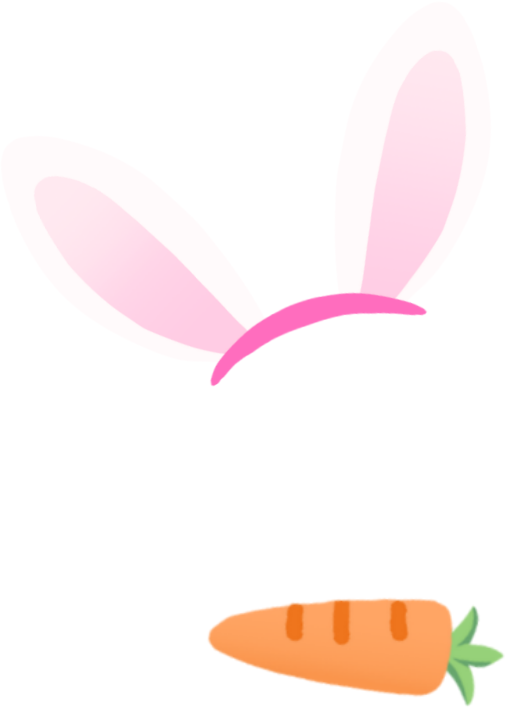
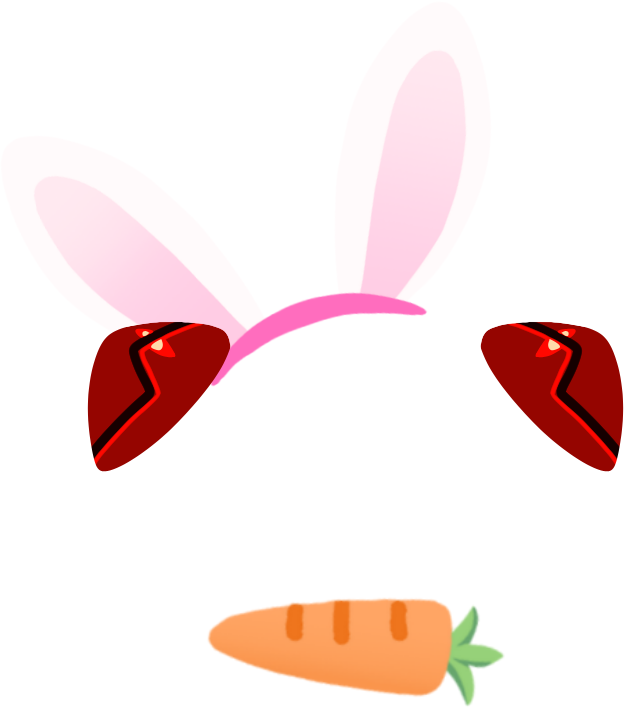
update v1787691812

Changed region(s): [[0.1186, 0.0932, 1.0, 0.6836], [0.3261, 0.839, 1.0, 1.0]]

diff --git a/mascot.py b/mascot.py
@@ -5534,6 +5534,10 @@ class Mascot:
         self._prop_back_cfg = {}     # 뽑힌 소품의 뒤쪽 조각 움직임 설정
         self._prop_bits = []         # 여러 조각짜리 소품의 곁조각 자리 이름
         self._prop_bit_cfg = {}      # 그 조각마다의 움직임 (지뢰 13)
+        self._prop_gname = ""        # 지금 소품의 이름 (고양이·만두…)
+        self._cat_open_until = 0.0   # 고양이가 눈을 뜨고 있는 시한
+        self._cat_open_next = 0.0    # 다음에 눈을 뜰 시각
+        self._cat_heart_next = 0.0   # 다음 하트가 나올 시각
         # ── 매끈한 캐릭터 (몸만 레이어 창으로) ───────────────────────────
         # **_load_parts 보다 먼저 정해야 한다.** 파츠를 읽으면서 몸 뒤
         # 파츠의 움직임 프레임을 미리 굽는데, 그 캐시에 PIL 을 담을지
@@ -6374,6 +6378,26 @@ class Mascot:
 
     PROP_BIT_MAX = 6         # 한 소품에 붙일 수 있는 곁조각 수
 
+    # 이름(gname)으로 주는 기본 움직임 — 열여덟 캐릭터의 config 를 일일이
+    # 고치지 않아도 새 소품이 살아 움직인다. config 의 prop_motion 이 있으면
+    # 그쪽이 이긴다 (캐릭터별 손맛).
+    #   고양이: prop=꼬리(살랑) · bit2=몸 · bit3=눈감은 얼굴(리듬 까닥) ·
+    #           bit4=눈뜬 얼굴(가만히 빤히 — 움직임 없음)
+    #   만두:   bit2=김(폴폴 오르며 옅어짐)
+    PROP_MOTION_DEF = {
+        "고양이": {
+            "prop": {"motion": "sway", "amp": 8.0, "period": 2.6,
+                     "jitter": 0.18, "pivot": [0.5, 0.9], "steps": 24},
+            "prop_bit3": {"motion": "sway", "amp": 3.6, "period": 1.35,
+                          "jitter": 0.08, "pivot": [0.5, 0.86],
+                          "steps": 20},
+        },
+        "만두": {
+            "prop_bit2": {"motion": "steam", "amp": 1.0, "period": 3.4,
+                          "jitter": 0.12, "rise": 1.1, "steps": 22},
+        },
+    }
+
     def _load_prop_bits(self, pick, s, pil_cache):
         """여러 조각으로 된 특별 소품 (사가 신하나의 미쿠).
 
@@ -6405,7 +6429,10 @@ class Mascot:
         # 다시 매기면 밀린다 (미쿠가 prop16 → prop17 이 됐다). 번호로도
         # 찾아 주므로 옛 config 도 그대로 돈다.
         tab9 = self.cfg.get("prop_motion") or {}
-        mo_all = tab9.get(ent.get("gname") or "") or tab9.get(pick) or {}
+        gname9 = str(ent.get("gname") or "")
+        self._prop_gname = gname9        # 그리는 쪽(고양이 눈)이 본다
+        mo_all = (tab9.get(gname9) or tab9.get(pick)
+                  or self.PROP_MOTION_DEF.get(gname9) or {})
         self._prop_bit_cfg["prop"] = mo_all.get("prop") or {}
         for j9, key9 in enumerate(keys):
             nm9 = "prop_bit%d" % (j9 + 2)
@@ -7478,6 +7505,34 @@ class Mascot:
             im = Image.new("RGBA", pil.size, (0, 0, 0, 0))
             im.alpha_composite(pil.resize((w, pil.height), Image.LANCZOS),
                                ((pil.width - w) // 2, 0))
+        elif mode == "steam":
+            # 김 — **제자리에서 위로 폴폴** 오르며 옅어졌다 다시 차오른다.
+            # 한 주기: 아래(진하게) → 위로 오르며 옅어짐 → 사라지고 다시.
+            # sin 이 아니라 톱니(주기 진행률)를 쓴다 — 김은 왕복하지 않는다.
+            t2 = (k / float(steps)) % 1.0
+            rise = pil.height * float(mo.get("rise", 0.9))
+            pad = int(math.ceil(rise)) + 2
+            # 처음엔 스르륵 나타나고(0→0.15) 끝에서 길게 사라진다
+            if t2 < 0.15:
+                a2 = t2 / 0.15
+            else:
+                a2 = max(0.0, 1.0 - (t2 - 0.15) / 0.85)
+            # 반투명 흰 김 (요청). 매끈 레이어에서는 알파 그대로 나오고,
+            # 색상키 경로에서는 키 색과 섞여 옅은 회색 김이 된다 — 김은
+            # 원래 회끄무레해 그 모습도 자연스럽다 (지뢰 65 의 얼룩과
+            # 달리 면적이 작고 늘 움직여 테로 보이지 않는다).
+            a2 *= 0.42 + 0.30 * (1.0 - t2)
+            fade = pil.copy()
+            fade.putalpha(fade.getchannel("A").point(
+                lambda v, m9=a2: int(v * m9)))
+            wob = math.sin(t2 * 2 * math.pi) * pil.width * 0.06
+            base = Image.new("RGBA",
+                             (pil.width + 2 * pad, pil.height + 2 * pad),
+                             (0, 0, 0, 0))
+            base.alpha_composite(fade,
+                                 (pad + int(round(wob)),
+                                  pad - int(round(rise * t2))))
+            im = base
         else:
             return None
         # 움직이는 조각이 넷이 되면서 12장 × 4 = 48장이라 상한 40 을 계속
@@ -12725,7 +12780,21 @@ class Mascot:
             hy = wy = round(h * 1.5)
             cloud = self._fx_cloud(hy)
 
+            # ③-2 작은 하트 — 고양이 소품 곁에 뿅뿅 (요청). 반 크기라
+            # 캐릭터 하트와 확실히 구분된다.
+            hs = round(h * 0.52)
+            whs = max(6, round(hs * 0.92))
+
+            def drawhs(d, c="#ff9fbc"):
+                r = whs * 0.26
+                d.ellipse([0, hs * 0.14, 2 * r, hs * 0.14 + 2 * r], fill=c)
+                d.ellipse([whs - 2 * r, hs * 0.14, whs, hs * 0.14 + 2 * r],
+                          fill=c)
+                d.polygon([(1, hs * 0.34), (whs - 1, hs * 0.34),
+                           (whs / 2, hs * 0.97)], fill=c)
+
             groups = {"note": notes, "heart": [(wh, drawh)],
+                      "heart_s": [(whs, drawhs, hs)],
                       "yawn": [(wy, cloud, hy)],
                       "sweat": [(ws, draws)], "question": [(wq, drawq)],
                       "spark": [(wk, drawk)], "bang": [(wb, drawb)]}
@@ -18116,8 +18185,27 @@ class Mascot:
         차례와 움직임은 얼굴 차례에서 하던 것과 똑같이 한다.
         """
         now9 = time.time()
+        # 고양이 소품 — 눈감은 얼굴(bit3)이 기본, 가끔 눈을 뜨고(bit4)
+        # 빤히 바라본다 (요청). 두 얼굴은 같은 자리라 하나만 그린다.
+        skip9 = None
+        if self._prop_gname == "고양이" and self.has.get("prop_bit4"):
+            if now9 < self._cat_open_until:
+                skip9 = "prop_bit3"          # 눈 뜸 — 가만히 응시
+            else:
+                skip9 = "prop_bit4"
+                if not self._cat_open_next:      # 켠 직후 — 예약만
+                    self._cat_open_next = now9 + random.uniform(8.0, 18.0)
+                elif now9 >= self._cat_open_next:
+                    self._cat_open_until = now9 + random.uniform(3.0, 5.5)
+                    self._cat_open_next = (self._cat_open_until
+                                           + random.uniform(14.0, 30.0))
+                # 눈을 감고 있는 동안 반투명 작은 하트가 뿅뿅 (요청)
+                if now9 >= self._cat_heart_next:
+                    self._cat_heart_next = now9 + random.uniform(1.4, 2.4)
+                    self._safe("cat_heart", self._cat_heart, now9, yo)
         for name in (self.layout.get("overlays") or []):
-            if not name.startswith("prop") or not self.has.get(name):
+            if (not name.startswith("prop") or not self.has.get(name)
+                    or name == skip9):
                 continue
             mo9 = (getattr(self, "_prop_bit_cfg", None) or {}).get(name)
             if mo9 and mo9.get("motion"):
@@ -18125,6 +18213,47 @@ class Mascot:
                 continue
             ox, oy_ = self._pos(name)
             self._put(name, ox, oy_ + yo)
+
+    def _cat_heart(self, now, yo):
+        """고양이 소품 곁에서 뿅 하고 오르는 작은 하트.
+
+        기존 하트 파티클(_spawn_note 의 heart)을 그대로 쓰되, 자리만
+        고양이(몸 조각) 위로 잡는다 — FxLayer 가 있으면 부드럽게 옅어지고
+        (반투명, 요청) 없으면 픽셀 솎기로 물러난다 (기존과 같은 길).
+        """
+        lvs = (self.fx_imgs.get("heart_s") or self.fx_imgs.get("heart")
+               or self.fx_imgs.get("note"))
+        if not lvs:
+            return
+        body9 = ("prop_bit2" if self.has.get("prop_bit2") else "prop")
+        try:
+            bx9, by9 = self._pos(body9)
+            ent9 = self.layout.get(body9) or {}
+            sz9 = ent9.get("size") or [40, 40]
+            w9 = float(sz9[0]) * self.s
+            h9 = float(sz9[1]) * self.s
+        except Exception:
+            return
+        # **주변을 번갈아** — 왼쪽·오른쪽·위를 돌아가며, 한 번에 두세 개를
+        # 박자를 어긋내 뿅뿅 (요청: 작게 여러 개).
+        side9 = getattr(self, "_cat_heart_side", 0)
+        self._cat_heart_side = (side9 + 1) % 3
+        for j9 in range(random.randint(2, 3)):
+            if side9 == 0:              # 왼쪽 곁
+                x = bx9 - w9 * random.uniform(0.05, 0.28)
+                y = by9 + yo + h9 * random.uniform(0.1, 0.7)
+            elif side9 == 1:            # 오른쪽 곁
+                x = bx9 + w9 * (1.0 + random.uniform(0.05, 0.28))
+                y = by9 + yo + h9 * random.uniform(0.1, 0.7)
+            else:                       # 머리 위
+                x = bx9 + w9 * random.uniform(0.2, 0.8)
+                y = by9 + yo - h9 * random.uniform(0.0, 0.25)
+            # 자리·속도·수명을 제각각 주면 같은 박자에 태어나도 흩어져
+            # '번갈아 뿅뿅'으로 보인다.
+            life = random.randint(24, 38)
+            self.notes.append([x, y, random.uniform(-0.35, 0.35),
+                               random.uniform(0.7, 1.15),
+                               random.choice(lvs), life, life])
 
     def _draw_pen_hand(self):
         """펜 쥔 손. 퀸시처럼 펜이 맨 위 레이어인 캐릭터는 머리를 그린 뒤 호출.
